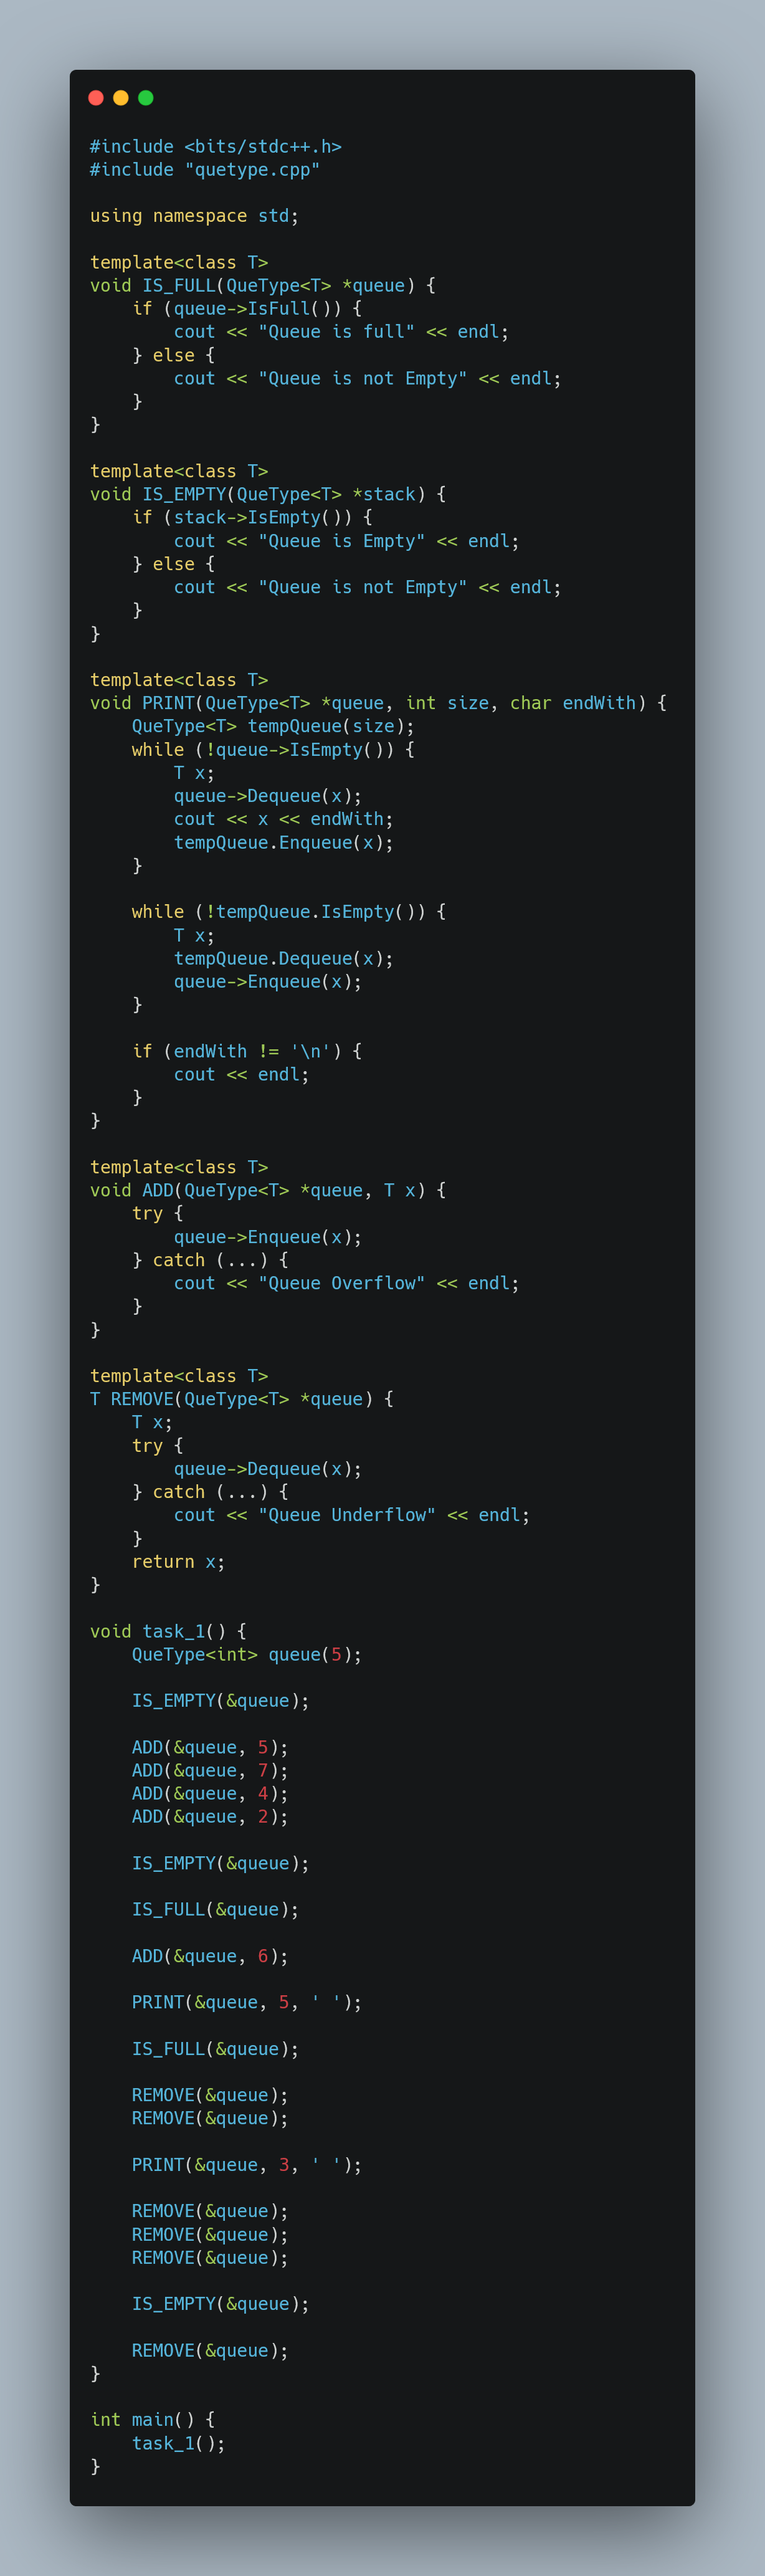
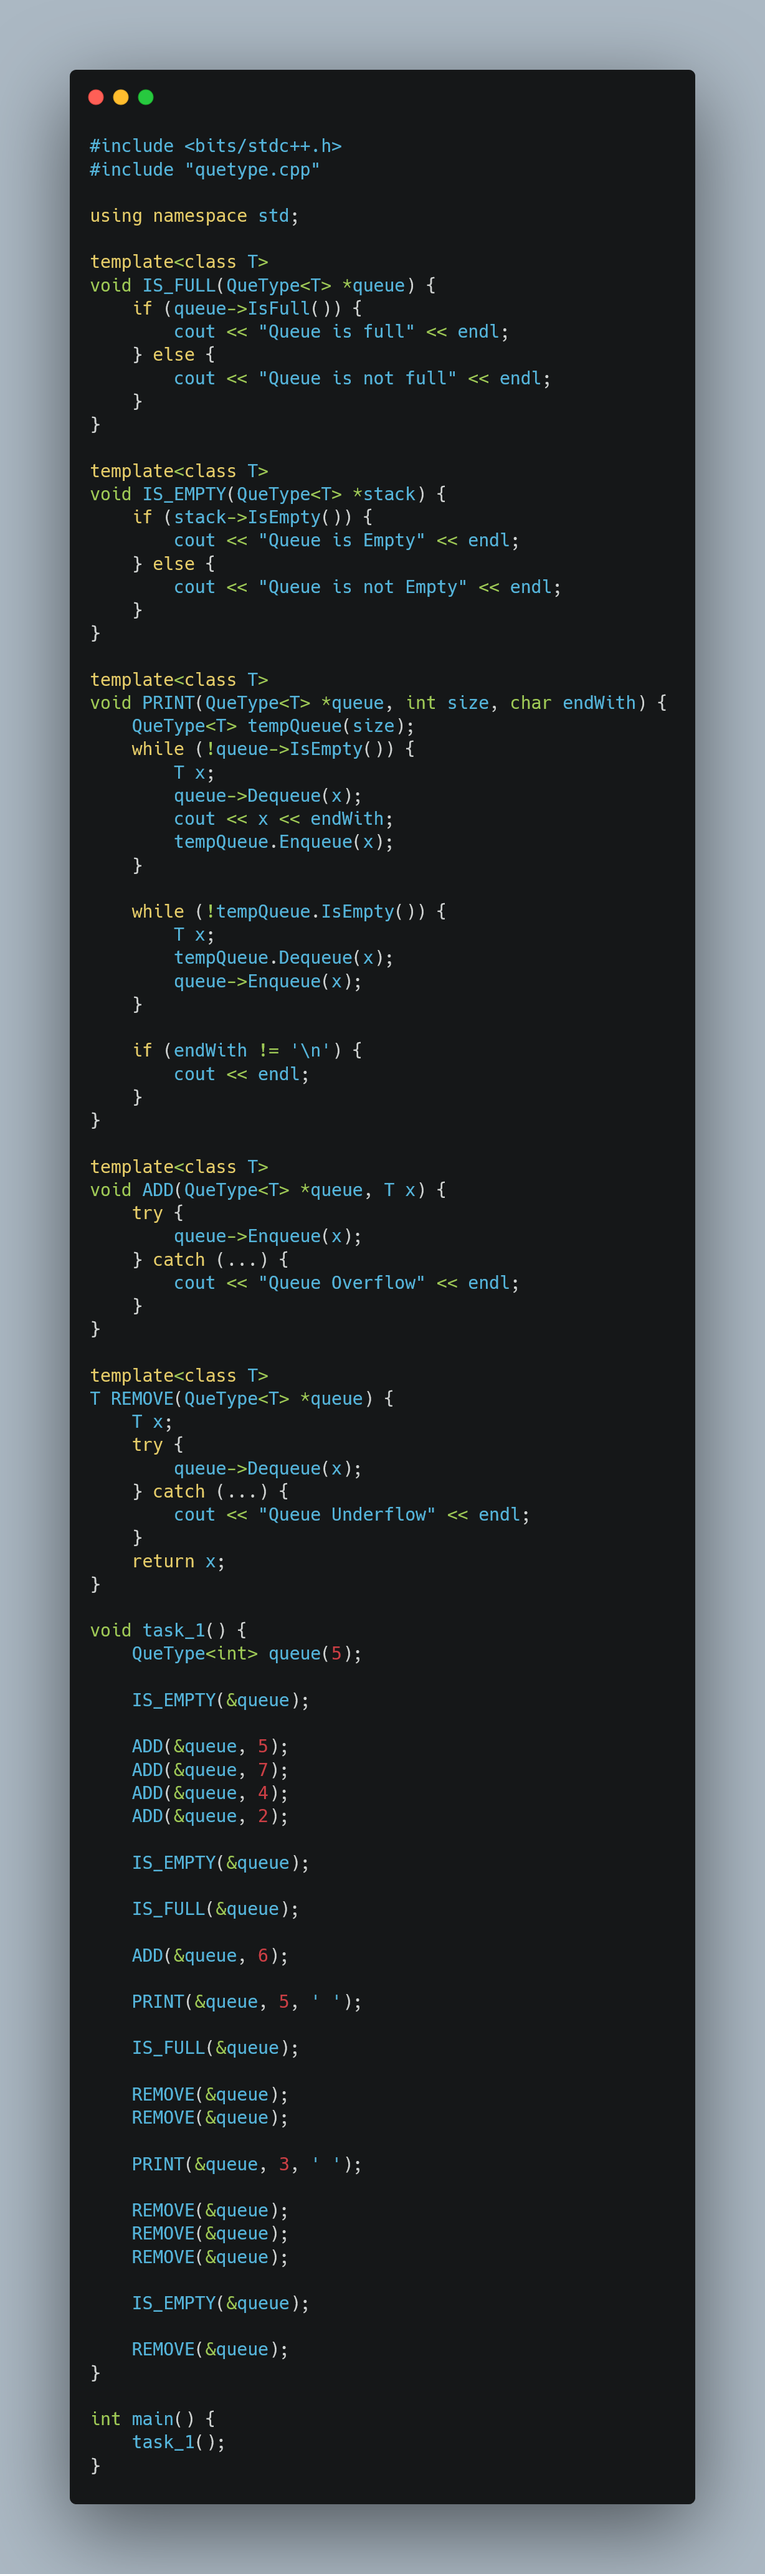
Lab 9 fixed and mid

diff --git a/C++/clion/Student.cpp b/C++/clion/Student.cpp
@@ -1,0 +1,92 @@
+#include "Student.h"
+
+#include <utility>
+
+const std::string &Student::getName() const {
+    return Name;
+}
+
+void Student::setName(const std::string &name) {
+    Name = name;
+}
+
+int Student::getId() const {
+    return ID;
+}
+
+void Student::setId(int id) {
+    ID = id;
+}
+
+const std::string &Student::getDepartment() const {
+    return Department;
+}
+
+void Student::setDepartment(const std::string &department) {
+    Department = department;
+}
+
+int Student::getCgpa() const {
+    return CGPA;
+}
+
+void Student::setCgpa(int cgpa) {
+    CGPA = cgpa;
+}
+
+Student::Student(std::string name, int id, std::string department, int cgpa) : Name(std::move(name)), ID(id),
+                                                                               Department(std::move(department)),
+                                                                               CGPA(cgpa) {}
+
+Student::Student() {
+    setName("");
+    setId(0);
+    setDepartment("");
+    setCgpa(4);
+}
+
+std::ostream &operator<<(std::ostream &os, const Student &student) {
+    os << "Name: " << student.Name << " ID: " << student.ID << " Department: " << student.Department << " CGPA: "
+       << student.CGPA;
+    return os;
+}
+
+bool Student::operator==(const Student &rhs) const {
+    return Name == rhs.Name &&
+           ID == rhs.ID &&
+           Department == rhs.Department &&
+           CGPA == rhs.CGPA;
+}
+
+bool Student::operator!=(const Student &rhs) const {
+    return !(rhs == *this);
+}
+
+Student::~Student() {
+    std::string null;
+    this->Name = null;
+    this->ID = NULL;
+    this->CGPA = NULL;
+    this->Department = null;
+}
+
+
+void Students::DELETE(const Student &student) {
+    int location = 0;
+    for (int i = 0; i < size; ++i) {
+        if (students[i] != student) {
+            location++;
+        }
+    }
+    students[location] = students[size - 1];
+}
+
+void Students::ADD(const Student &student) {
+    students[at++] = student;
+}
+
+Students::Students(int size) : size(size) {
+    students = new Student[size];
+}
+
+

diff --git a/C++/clion/Student.h b/C++/clion/Student.h
@@ -1,0 +1,58 @@
+//
+// Created by Fahim on 07/12/2021.
+//
+#include <bits/stdc++.h>
+#include <ostream>
+
+#ifndef CLION_STUDENT_H
+#define CLION_STUDENT_H
+
+
+class Student {
+    std::string Name;
+    int ID{};
+    std::string Department;
+    int CGPA{};
+public:
+    Student();
+
+    Student(std::string name, int id, std::string department, int cgpa);
+
+    const std::string &getName() const;
+
+    void setName(const std::string &name);
+
+    int getId() const;
+
+    void setId(int id);
+
+    const std::string &getDepartment() const;
+
+    void setDepartment(const std::string &department);
+
+    int getCgpa() const;
+
+    void setCgpa(int cgpa);
+
+    bool operator==(const Student &rhs) const;
+
+    bool operator!=(const Student &rhs) const;
+
+    friend std::ostream &operator<<(std::ostream &os, const Student &student);
+
+    virtual ~Student();
+};
+
+class Students{
+    int size=0;
+    int at=0;
+    int Max{};
+    Student *students;
+public:
+    explicit Students(int size);
+    void ADD(const Student& student);
+    void DELETE(const Student& student);
+};
+
+
+#endif //CLION_STUDENT_H

diff --git a/C++/clion/main.cpp b/C++/clion/main.cpp
@@ -1,53 +1,13 @@
 #include <bits/stdc++.h>
-#include "quetype.cpp"
-
+#include "Student.h"
 using namespace std;
 
-int task_1() {
-    int n;
-    cin>>n;
-    int arr[n];
-    for (int i = 0; i < n; ++i) {
-        cin>>arr[i];
-    }
 
-    int money;
-    cin>>money;
-    QueType<int>que;
-    que.Enqueue(money);
+void ADD(){
 
-    unordered_set<int> set;
-    int turn=0,size=1;
-
-    while (!que.IsEmpty()){
-        int s=size;
-        while (s--){
-            int x;
-            que.Dequeue(x);
-            size--;
-            if(x <= 0){
-                return turn;
-            }
-            if(set.find(x) != set.end() || x < 0){
-                continue;
-            }
-            set.insert(x);
-            for (int i = 0; i < n; ++i) {
-                que.Enqueue(x - arr[i]);
-                size++;
-            }
-        }
-        turn++;
-    }
-    return -1;
 }
 
-
 int main() {
-    int n=3;
-    for (int i = 0; i < n; ++i) {
-        cout<<task_1()<<endl;
-    }
-    // for 3 2 3 5 200
-    // we can take 40 note of 5
+    Students students(5);
+
 }

diff --git a/C++/Lab/Lab_9/Task_1/main.cpp b/C++/Lab/Lab_9/Task_1/main.cpp
@@ -8,7 +8,7 @@ void IS_FULL(QueType<T> *queue) {
     if (queue->IsFull()) {
         cout << "Queue is full" << endl;
     } else {
-        cout << "Queue is not Empty" << endl;
+        cout << "Queue is not full" << endl;
     }
 }
 
